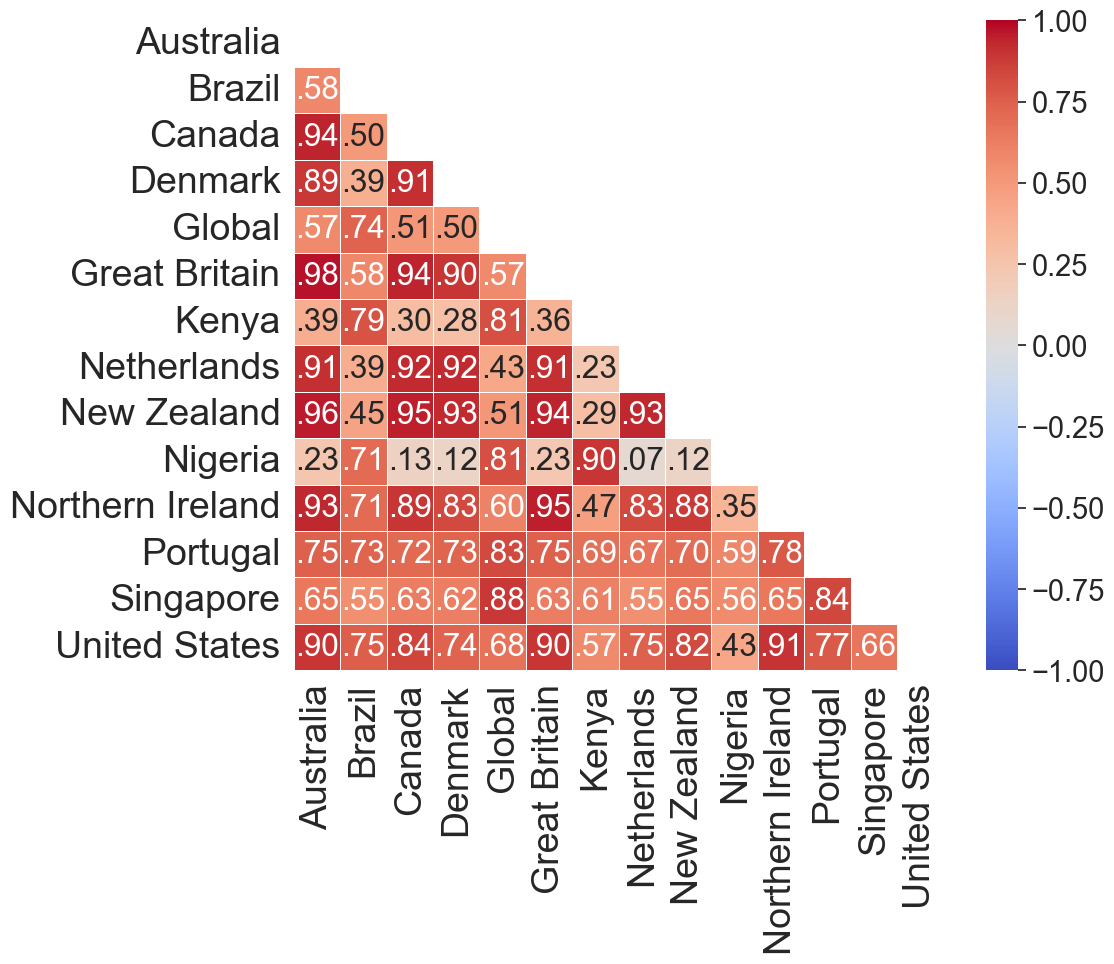
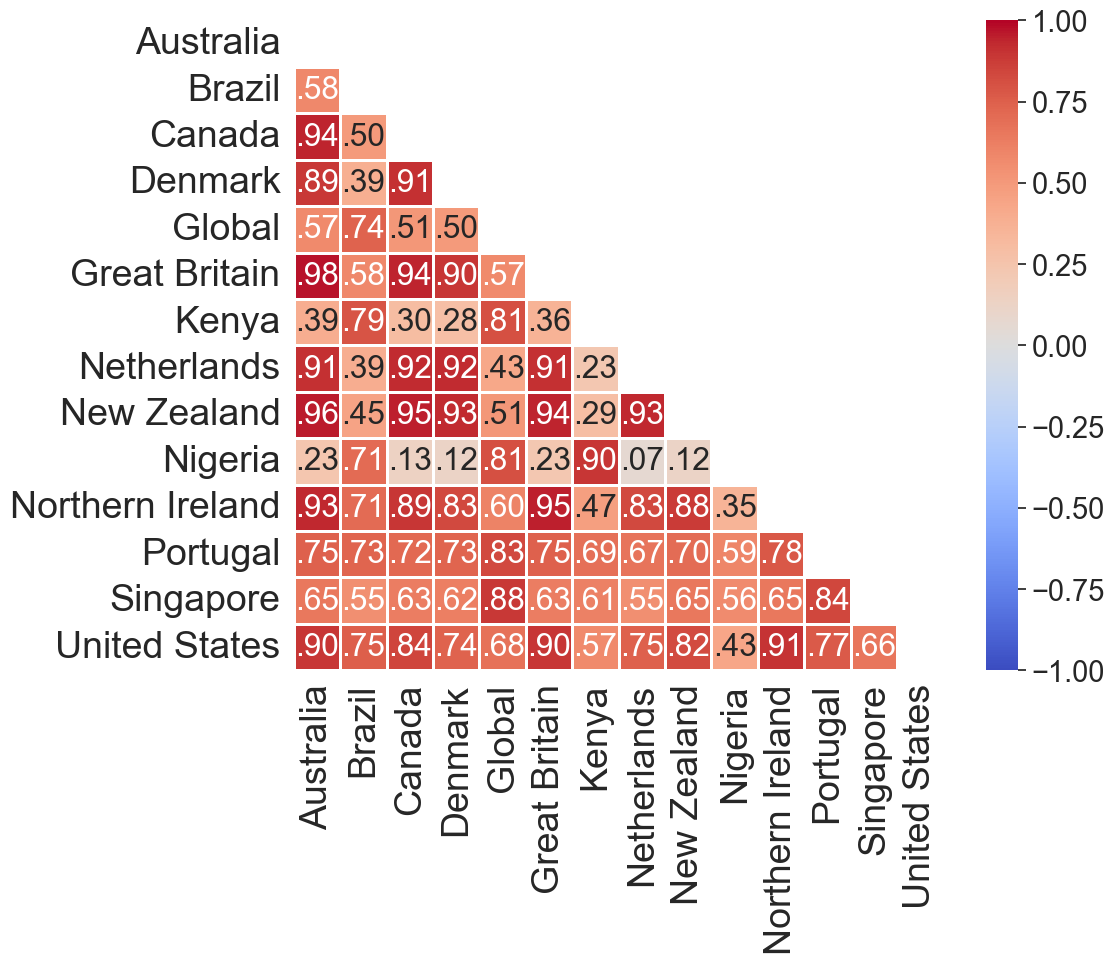
add annotation option

diff --git a/scripts/plot_wvs_data.py b/scripts/plot_wvs_data.py
@@ -53,7 +53,7 @@ def plot_language_correlations(wvs_language_data: pl.DataFrame):
     plt.savefig(PLOT_DIR / "wvs_language_correlations.png", bbox_inches="tight")
 
 
-def plot_country_correlations(wvs_data: pl.DataFrame, font_size: int = 15):
+def plot_country_correlations(wvs_data: pl.DataFrame, font_size: int = 15, annotate: bool = True):
     pivoted = wvs_data.pivot(index="question_key", on="cntry_an", values="pro_score", sort_columns=True)
     corr_matrix = pivoted.to_pandas().corr(numeric_only=True, min_periods=1)
     # Create a mask for the upper triangle
@@ -65,13 +65,13 @@ def plot_country_correlations(wvs_data: pl.DataFrame, font_size: int = 15):
     heatmap = sns.heatmap(
         corr_matrix,
         mask=mask,
-        annot=annot_labels,
+        annot=annot_labels if annotate else False,
         cmap="coolwarm",
         vmin=-1,
         vmax=1,
         center=0,
         square=True,
-        linewidths=0.5,
+        linewidths=0.75,
         fmt="",
         cbar_kws={"shrink": 1},
     )
